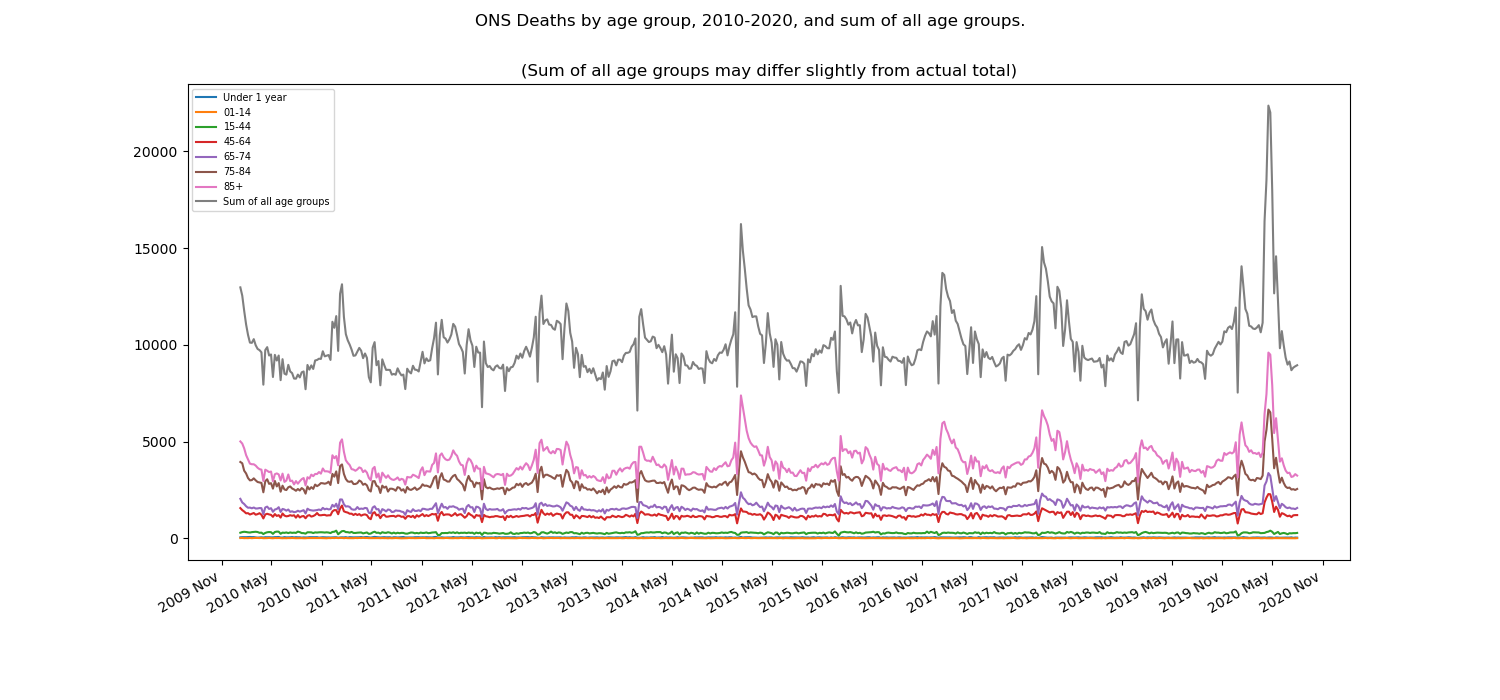
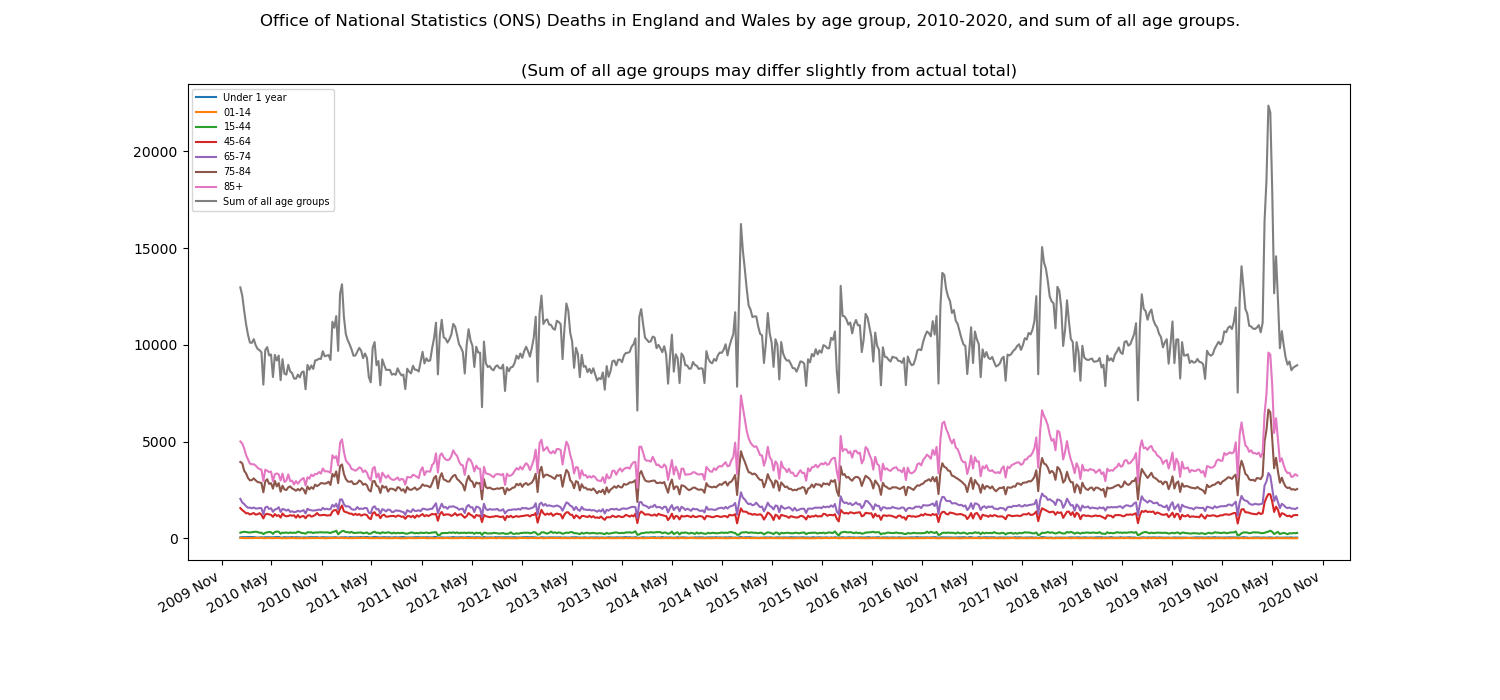
Update titles to show correct region info.

Changed region(s): [[0.184, 0.0, 0.828, 0.06]]

diff --git a/ons_deaths.py b/ons_deaths.py
@@ -105,7 +105,7 @@ df_2010_2020["Sum of all age groups"] = df_2010_2020.sum(axis=1, skipna=False)
 
 fig, ax = plt.subplots(figsize=(15, 7))
 df_2010_2020.plot(ax=ax)
-plt.suptitle("ONS Deaths by age group, 2010-2020, and sum of all age groups.")
+plt.suptitle("Office of National Statistics (ONS) Deaths in England and Wales by age group, 2010-2020, and sum of all age groups.")
 plt.title("(Sum of all age groups may differ slightly from actual total)")
 ax.xaxis.set_major_locator(mdates.MonthLocator(interval=6))
 plt.legend(loc=2, prop={'size': 7})

diff --git a/README.md b/README.md
@@ -2,7 +2,7 @@
 
 Some processing and graphing scripts for [Office of National Statistics Deaths](https://www.ons.gov.uk/peoplepopulationandcommunity/birthsdeathsandmarriages/deaths/datasets/weeklyprovisionalfiguresondeathsregisteredinenglandandwales) data.
 
-This data covers England, Wales and Northern Ireland.
+This data covers England and Wales.
 
 The code extracts the relevant data from the spreadsheets that have been downloaded from the above ONS site. For the year 2020 we homogenise the age groups to match that used in the previous years.
 
